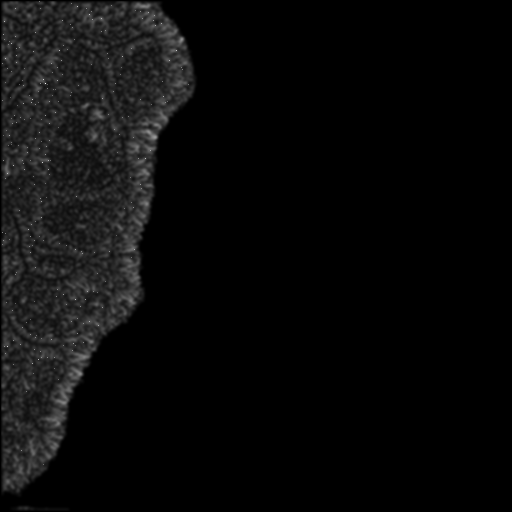
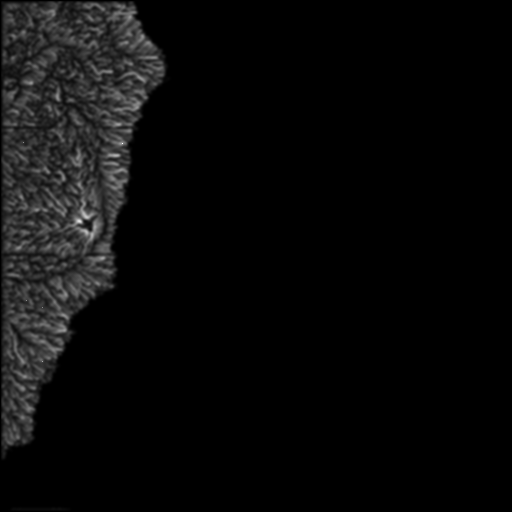
Fix coastline sediment buildup by removing artificial deposition
Droplets reaching the ocean or lakes no longer deposit sediment at that
exact location. In reality, ocean currents disperse sediment rather than
piling it up at the shoreline. This fixes the vertical wall artifacts
that were appearing along coastlines.

Changed region(s): [[0.0, 0.0, 0.4062, 0.9688]]

diff --git a/src/simulation/HydraulicErosion.cpp b/src/simulation/HydraulicErosion.cpp
@@ -213,27 +213,21 @@ void HydraulicErosion::simulateDroplet(Random& rng, int chunkX, int chunkY, int 
         // === TERMINATION CONDITIONS ===
 
         // 1. Reached sea level - droplet joins the ocean
+        // Don't deposit sediment here - ocean currents carry it away
         if (current.height <= seaLevel) {
-            // Deposit remaining sediment at coastline
-            if (sediment > 0.001f) {
-                heightData[dropletIndex] += sediment * 0.5f;
-            }
             break;
         }
 
         // 2. Reached a lake/water body - droplet joins existing water
+        // Don't deposit at lakes either - sediment settles on lake bottom (not terrain)
         if (waterData && waterData[dropletIndex] > minWaterForLake) {
-            // Deposit sediment in lake (forms deltas)
-            if (sediment > 0.001f) {
-                heightData[dropletIndex] += sediment * 0.3f;
-            }
             break;
         }
 
         // 3. Droplet is stuck in a pit (no gradient, very slow)
+        // Only deposit sediment in inland depressions, not at water bodies
         if (speed < 0.001f && lifetime > 10) {
-            // Deposit all sediment here
-            heightData[dropletIndex] += sediment;
+            heightData[dropletIndex] += sediment * 0.5f;  // Partial deposit
             break;
         }
 
